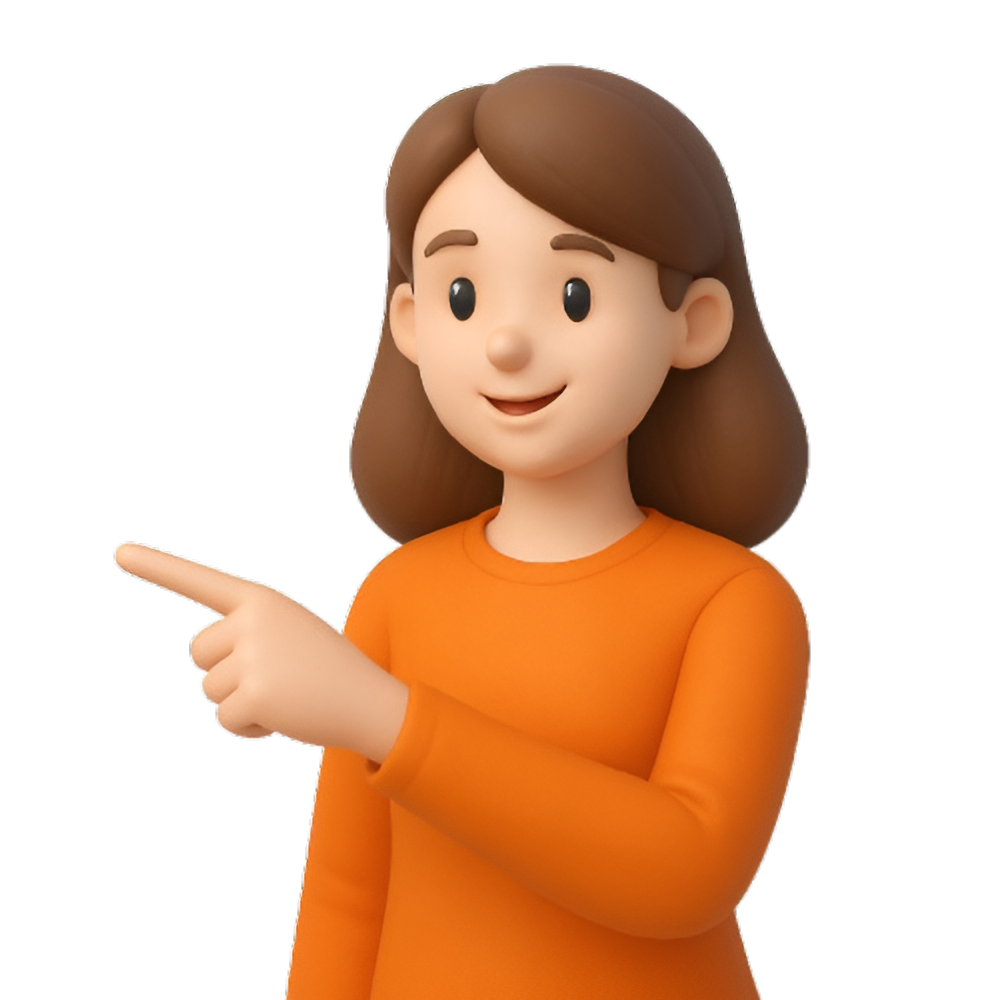
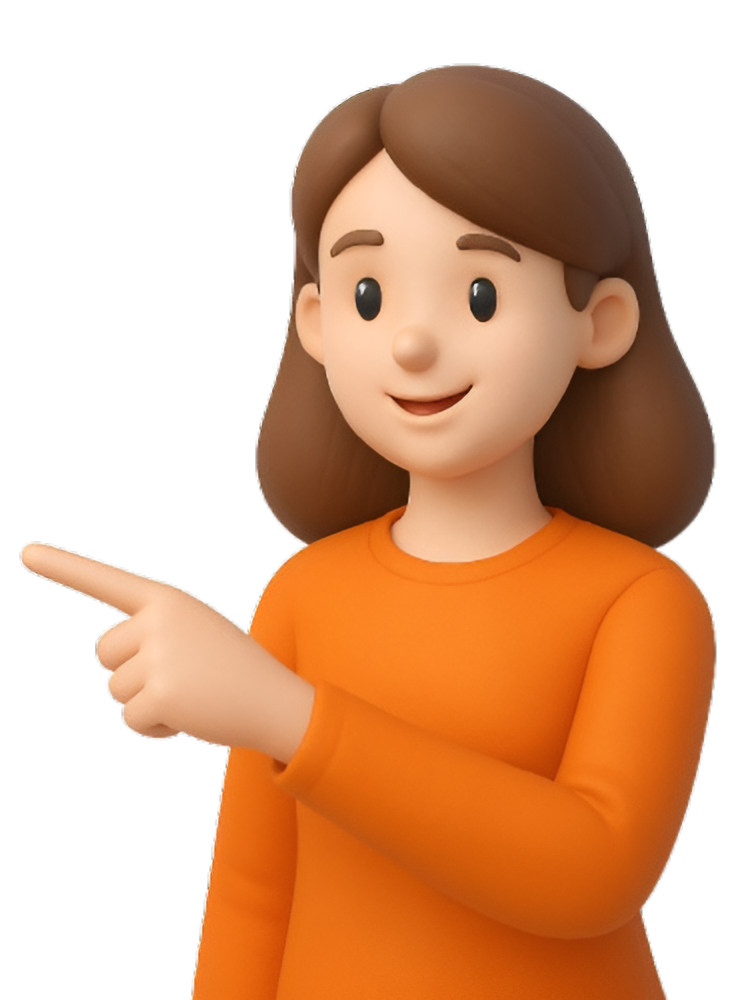
/Auto-Sync/

diff --git a/Client/src/HomeComponents/FrontHome.jsx b/Client/src/HomeComponents/FrontHome.jsx
@@ -14,17 +14,14 @@ const FrontHome = () => {
       initial="hidden"
       whileInView="visible"
       viewport={{ once: true, amount: 0.3 }}
-      transition={{ duration: 0.7, ease: 'easeOut' }}>
-      {/* Background image Div */}
-      <div>
-
+      transition={{ duration: 0.7, ease: 'easeOut' }}
+      className='w-full h-2/3'>
         {/* Main div*/}
-        <div className="home-main flex justify-center items-center">
-
+        <div className="home-main h-full flex justify-center items-center">
           {/* div for background */}
-          <div className='bgshade bg-primary w-full shadow-3d'>
+          <div className='bgshade bg-primary w-full h-full flex justify-center p-0 rounded-4xl shadow-3d'>
             {/* Div of finding colleges in indore */}
-            <div id='college-contain' className="flex flex-col text-center justify-center w-full md:w-1/2 xl:gap-5 gap-4 sm:gap-8 lg:gap-6">
+            <div id='college-contain' className="w-2/3 max-h-full p-5 flex flex-col text-center justify-center md:w-1/2 xl:gap-5 gap-4 sm:gap-8 lg:gap-6">
               <h1 id='CollegeHeading' className='xl:text-7xl lg:text-[4rem] text-2xl sm:text-3xl md:text-[3rem] font-bold text-tprimary'>
                 Find the <span className="text-orange-400">Best</span><br />
                 <span className="text-orange-400">College</span> in INDORE</h1>
@@ -35,13 +32,12 @@ const FrontHome = () => {
               </div>
             </div>
             {/* girl-img */}
-            <img src={Girl} className="md:h-100 md:w-96 drop-shadow-[8px_0px_16px_#d1d9e6]" />
+            <div className="w-1/3 h-full m-0 p-0 flex items-center justify-center">
+              <img src={Girl} className="max-w-full max-h-full object-contain drop-shadow-[8px_0px_16px_#d1d9e6]" />
+            </div>
           </div>
           {/* Front Page */}
         </div>
-        {/* Background div ends here*/}
-
-      </div>
     </motion.section>
   )
 }

diff --git a/Client/src/App.css b/Client/src/App.css
@@ -62,7 +62,6 @@ h1 {
 }
 
 #college-contain {
-  padding: 20px;
   animation: float 8s ease-in-out infinite;
 }
 
